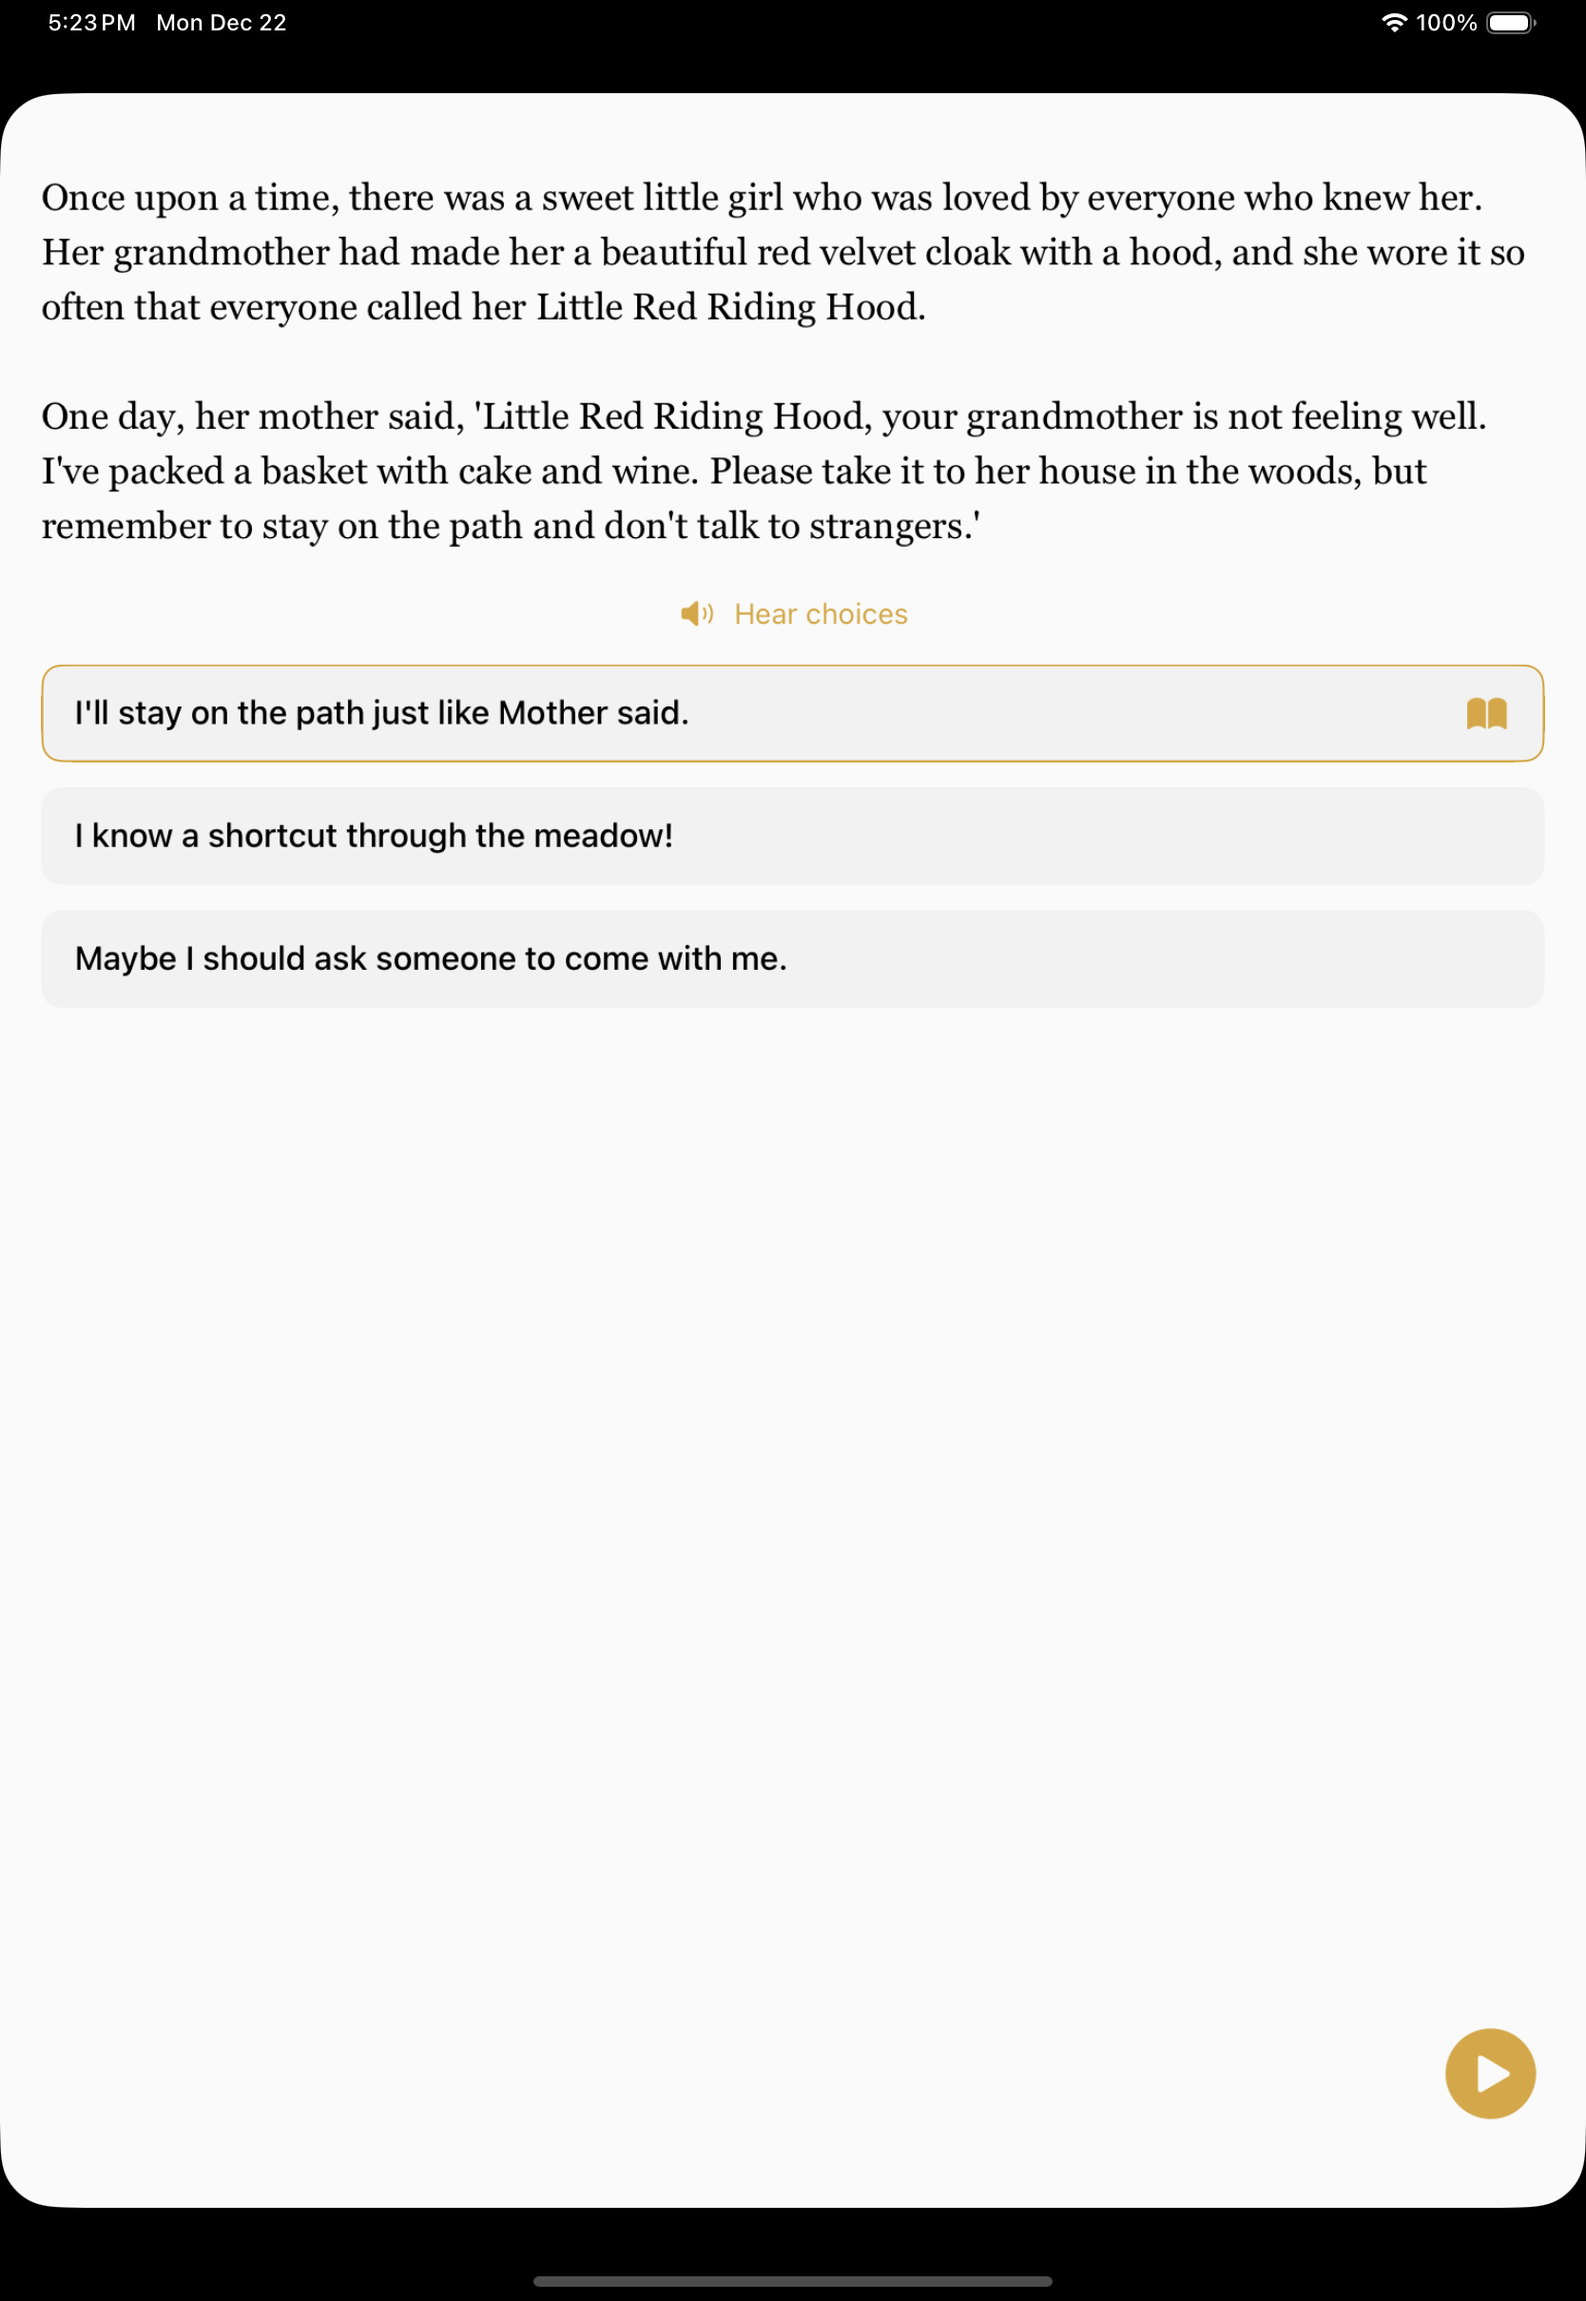
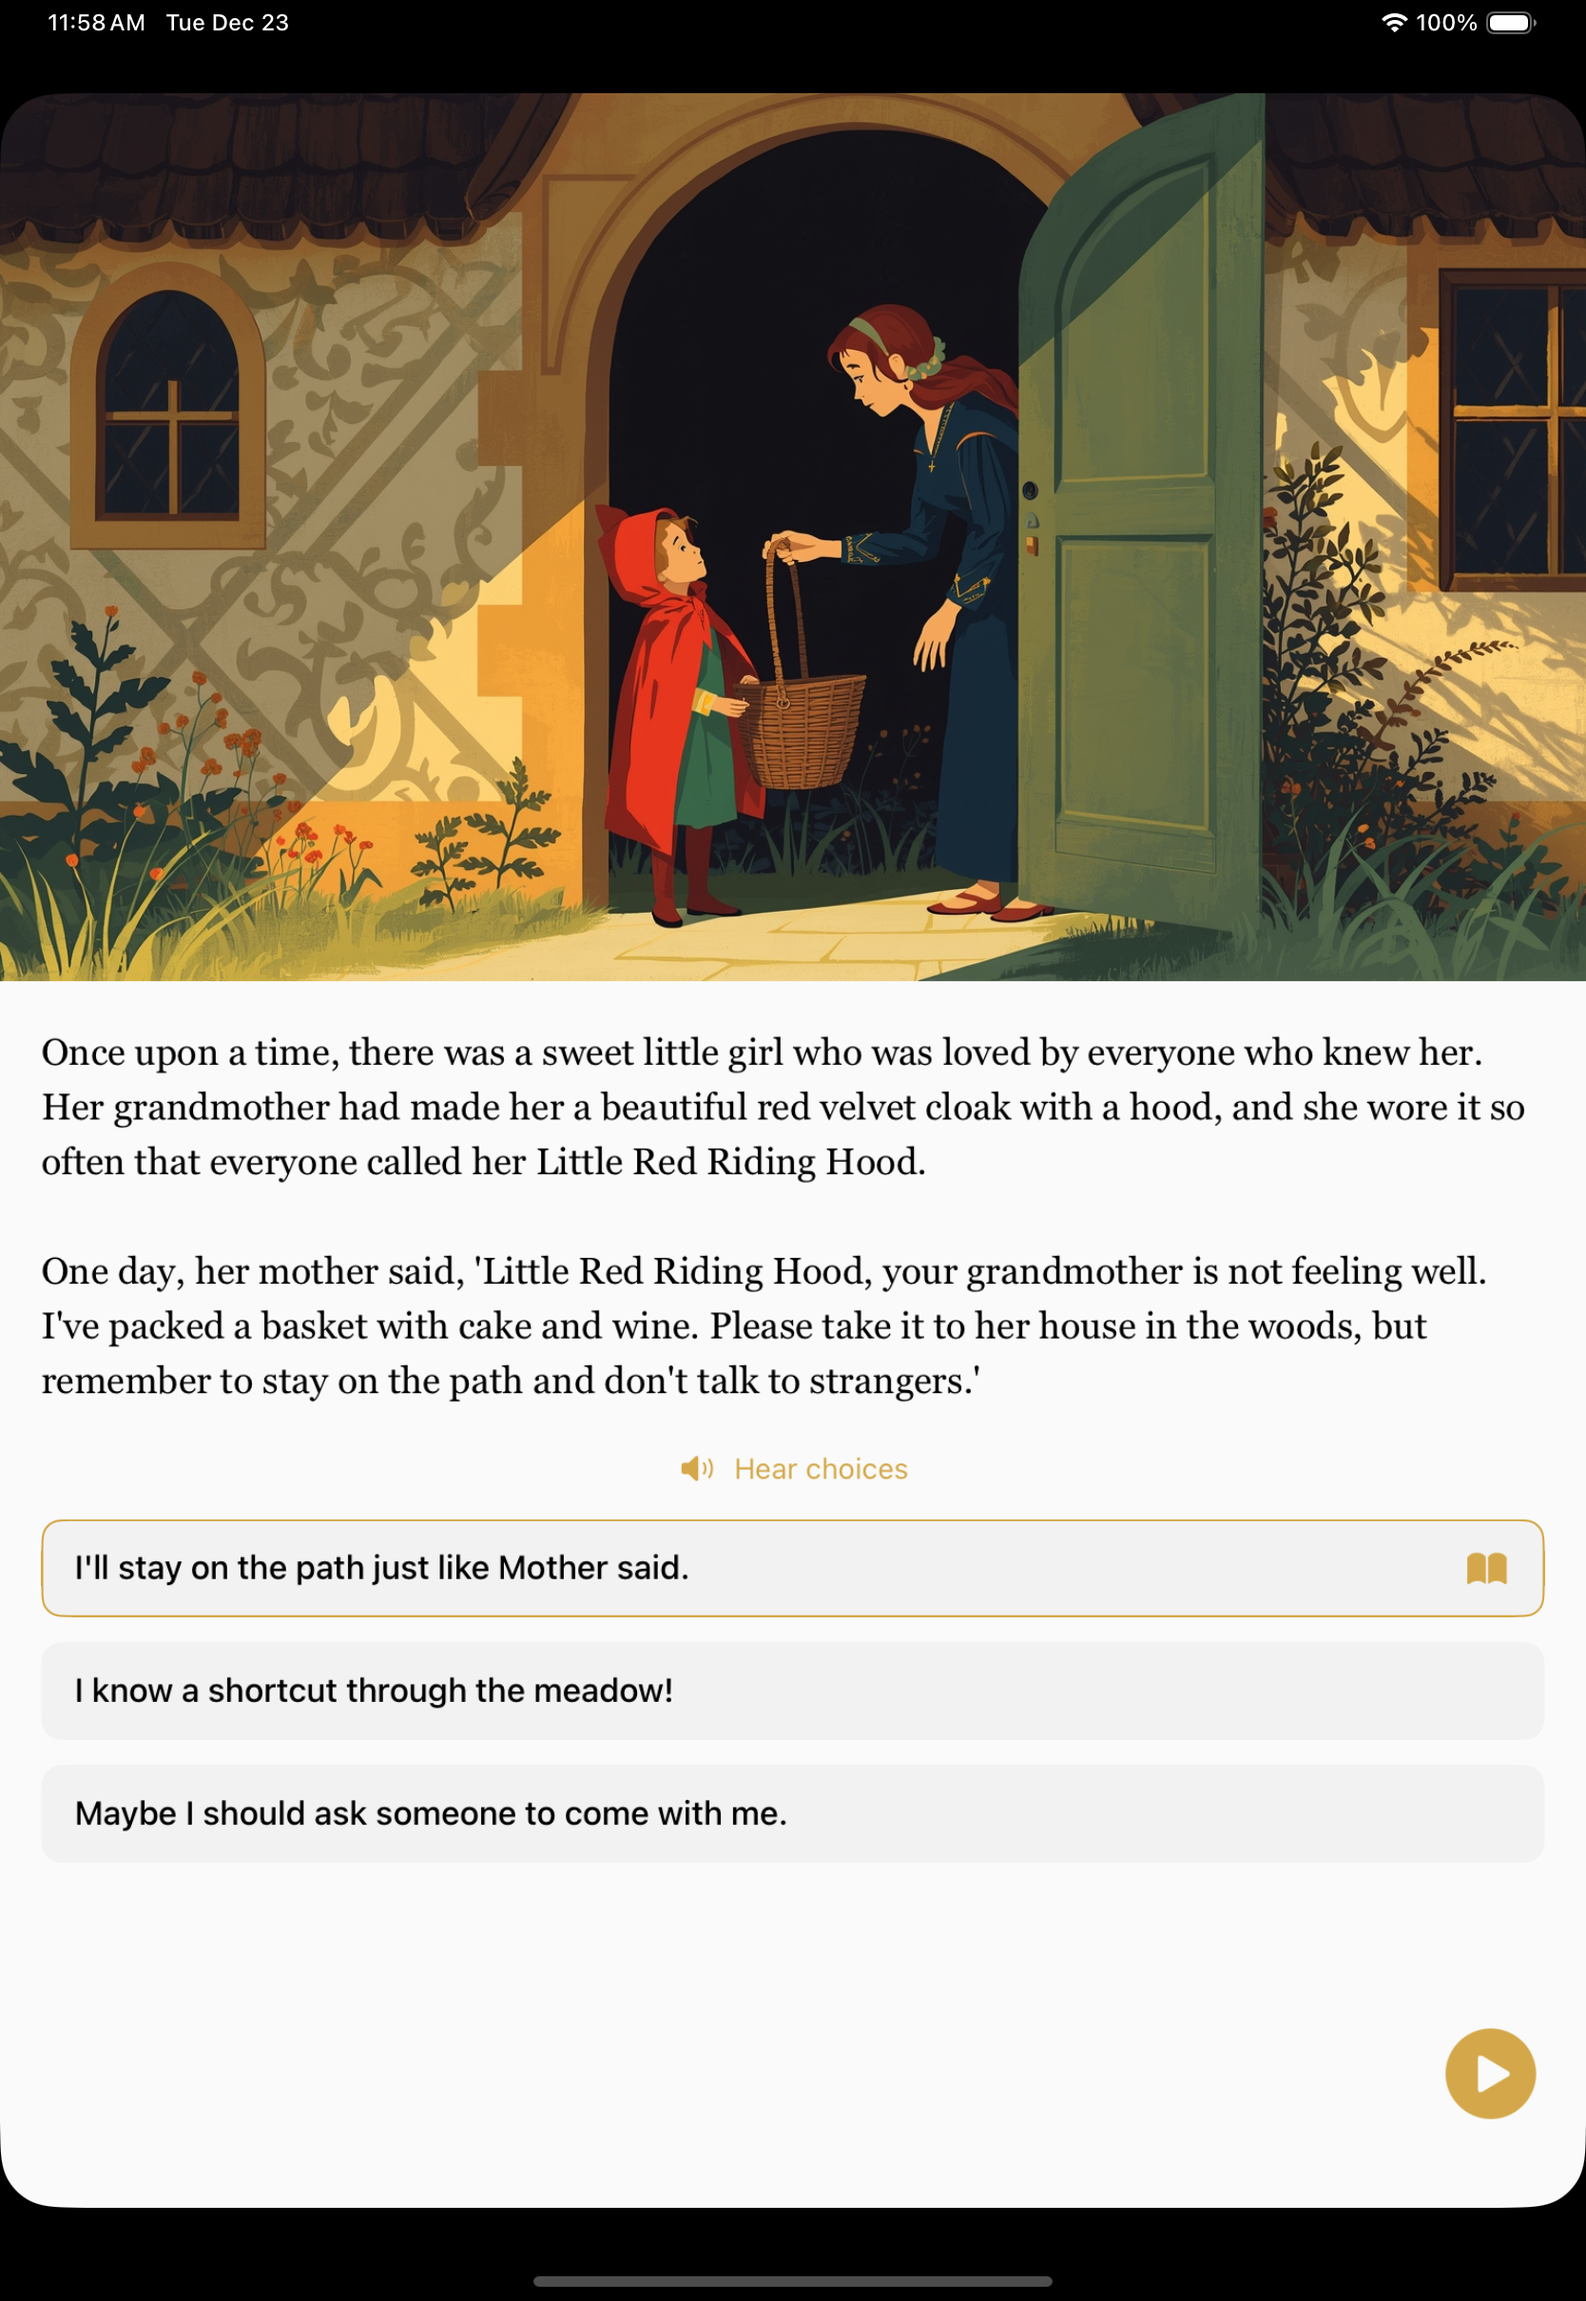
Add 13 illustrations for Little Red Riding Hood story
- Eyvind Earle style artwork generated via Leonardo.ai
- Fix scroll position to show illustration on page change
- Add macOS compatibility for image validation

diff --git a/StoryPath/StoryPath/Views/StoryReadingView.swift b/StoryPath/StoryPath/Views/StoryReadingView.swift
@@ -6,6 +6,8 @@
 import SwiftUI
 #if os(iOS)
 import UIKit
+#else
+import AppKit
 #endif
 
 struct StoryReadingView: View {
@@ -165,15 +167,22 @@ struct StoryReadingView: View {
         }
     }
 
+    private func hasValidImage(for segment: StorySegment) -> Bool {
+        guard let imageName = segment.imageFileName else { return false }
+        #if os(iOS)
+        return UIImage(named: imageName) != nil
+        #else
+        return NSImage(named: imageName) != nil
+        #endif
+    }
+
     @ViewBuilder
     private func illustrationView(for segment: StorySegment) -> some View {
-        if let imageName = segment.imageFileName {
+        if hasValidImage(for: segment), let imageName = segment.imageFileName {
             Image(imageName)
                 .resizable()
                 .aspectRatio(contentMode: .fit)
                 .frame(maxWidth: .infinity)
-                .clipShape(RoundedRectangle(cornerRadius: 12))
-                .padding(.horizontal, 20)
                 .onTapGesture {
                     withAnimation(.easeInOut(duration: 0.25)) {
                         fullscreenImage = imageName
@@ -236,13 +245,14 @@ struct StoryReadingView: View {
                         VStack(alignment: .leading, spacing: 24) {
                             // Illustration
                             illustrationView(for: segment)
+                                .id(hasValidImage(for: segment) ? "top" : nil)
 
                             // Story text
                             Text(segment.text)
                                 .font(.custom("Georgia", size: 18))
                                 .lineSpacing(6)
                                 .padding(.horizontal, 20)
-                                .id("top")
+                                .id(hasValidImage(for: segment) ? nil : "top")
 
                             // Choices or ending
                             if segment.isEnding {
@@ -252,8 +262,8 @@ struct StoryReadingView: View {
                             }
                         }
                         .padding(.bottom, LayoutConstants.contentBottomPadding)
-                        .padding(.top, LayoutConstants.contentTopPadding)
-                        .safeAreaPadding(.top, viewModel.didResumeFromBookmark ? 0 : topPadding)
+                        .padding(.top, hasValidImage(for: segment) ? 0 : LayoutConstants.contentTopPadding)
+                        .safeAreaPadding(.top, viewModel.didResumeFromBookmark || hasValidImage(for: segment) ? 0 : topPadding)
                     }
                     .defaultScrollAnchor(.top)
                     .scrollIndicators(.hidden)

diff --git a/.agent-os/product/roadmap.md b/.agent-os/product/roadmap.md
@@ -42,6 +42,7 @@
 
 - [ ] Story library home screen - Grid/list view of available stories with cover art `M`
 - [ ] Story detail/preview screen - Synopsis, sample illustration, estimated reading time, path count `S`
+- [ ] Story provenance metadata - Original author, publication year, cultural origin, historical context `S`
 - [ ] Story progress indicators - Visual badges showing completed paths and overall progress `S`
 - [ ] Story collections/categories - Group stories by culture, theme, or collection (Grimm, Aesop, etc.) `M`
 - [ ] Additional stories authored - 4-6 more classic tales with branching narratives and audio `XL`
@@ -106,6 +107,7 @@
 - [ ] Path recommendations - "Haven't tried this path yet" suggestions `S`
 - [ ] Back button navigation - Navigate backwards through selected story path `M`
 - [ ] Illustration gallery - Unlock and view collected artwork `M`
+- [ ] Art style selection - Choose illustration style per story (Classic Fairytale, Soft Watercolor, Bold Graphic, etc.) `L`
 - [ ] Expanded story library - 10+ additional stories across diverse cultures `XL`
 
 ### Dependencies

diff --git a/README.md b/README.md
@@ -18,11 +18,11 @@ StoryPath brings timeless public domain stories to life with branching narrative
 - Text-to-speech narration with play/pause controls
 - Progress tracking with completion percentage
 - Auto-resume from bookmarked position
+- Story illustrations with fullscreen lightbox view
 
 ## Planned Features
 
 - Story library with multiple tales
-- AI-generated illustrations
 - In-app purchases for additional stories
 
 ## Tech Stack
